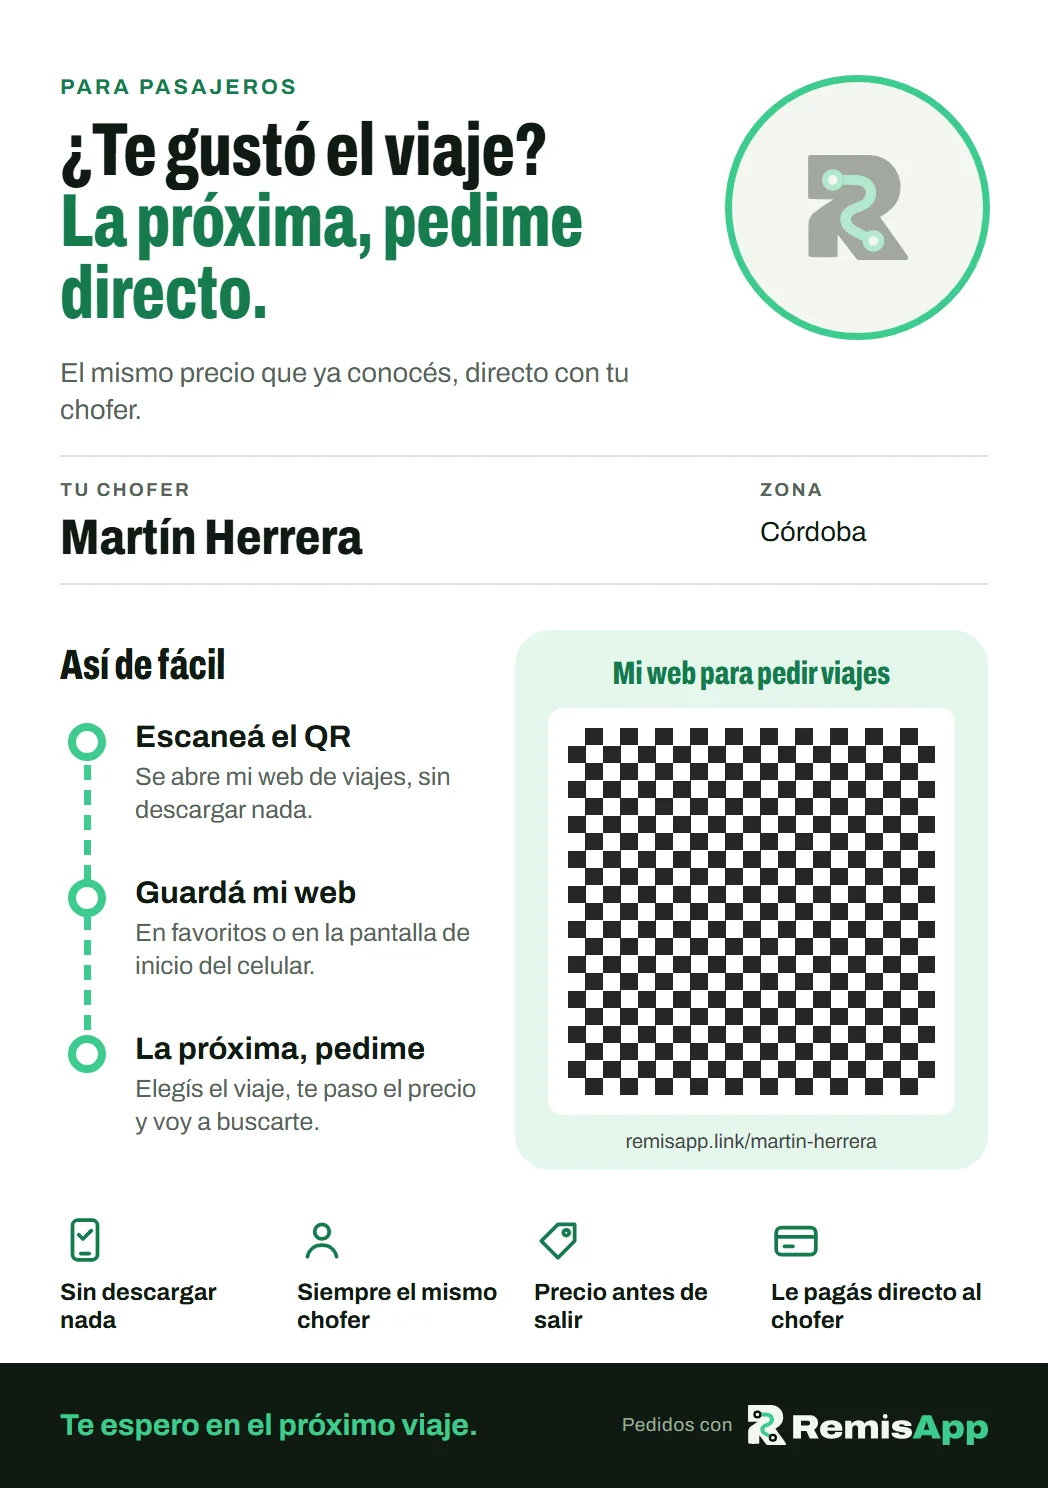
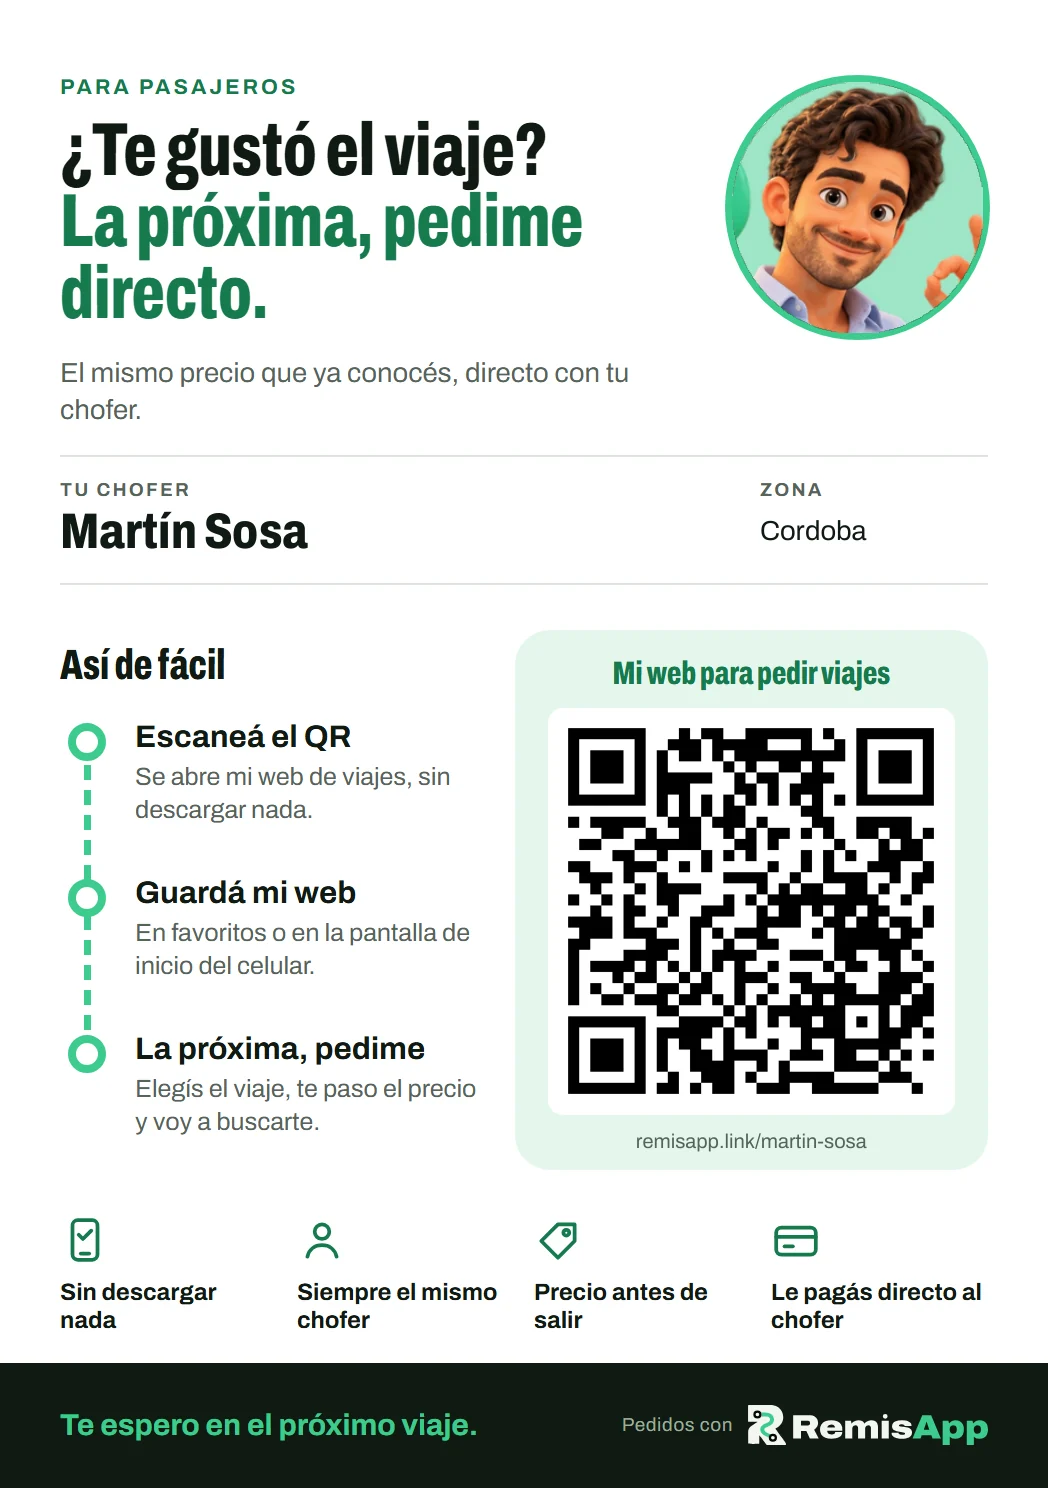
Landing: cartel QR de ejemplo nuevo (Martin Sosa, sacado de la app) y Privacidad sin 'remis y taxi'

diff --git a/landing-independiente/compartir.html b/landing-independiente/compartir.html
@@ -52,7 +52,7 @@
 <section class="feats">
   <div class="wrap">
     <div class="feat"><div class="phone"><img src="/assets/screens/app-pasajeros.webp" alt="Pestaña Pasajeros con los accesos Mi QR, Carteles y Mi link" width="780" height="1688" loading="lazy"></div><div><h2>Mi QR, Carteles <em>y Mi link.</em></h2><p>En la pestaña Pasajeros tenés tu QR para mostrar en pantalla, los carteles para imprimir y tu link para copiar y mandar.</p><ul class="checks"><li><svg viewBox="0 0 24 24" fill="none" stroke="currentColor" stroke-width="2.4" stroke-linecap="round" stroke-linejoin="round" aria-hidden="true"><path d="M20 6 9 17l-5-5"/></svg><span><strong>Siempre es el mismo.</strong> No tenés que volver a imprimir nada.</span></li><li><svg viewBox="0 0 24 24" fill="none" stroke="currentColor" stroke-width="2.4" stroke-linecap="round" stroke-linejoin="round" aria-hidden="true"><path d="M20 6 9 17l-5-5"/></svg><span><strong>Lo compartís en un toque.</strong> Por WhatsApp o donde quieras.</span></li></ul></div></div>
-    <div class="feat"><div class="sheet"><img src="/assets/screens/cartel-qr-ejemplo.webp" alt="Cartel QR para pasajeros con el nombre del chofer y un QR grande" width="1048" height="1488" loading="lazy"></div><div><h2>Un cartel <em>para el asiento.</em></h2><p>Tamaño A5, con tu nombre, tu foto y un QR grande. El pasajero lo escanea durante el viaje, guarda tu web y la próxima vez te pide directo.</p><ul class="checks"><li><svg viewBox="0 0 24 24" fill="none" stroke="currentColor" stroke-width="2.4" stroke-linecap="round" stroke-linejoin="round" aria-hidden="true"><path d="M20 6 9 17l-5-5"/></svg><span><strong>Imprimilo en casa.</strong> Es casi todo blanco: gasta poca tinta.</span></li><li><svg viewBox="0 0 24 24" fill="none" stroke="currentColor" stroke-width="2.4" stroke-linecap="round" stroke-linejoin="round" aria-hidden="true"><path d="M20 6 9 17l-5-5"/></svg><span><strong>Pegalo en el respaldo.</strong> A la altura de los ojos del que va atrás.</span></li></ul></div></div>
+    <div class="feat"><div class="sheet"><img src="/assets/screens/cartel-qr-ejemplo.webp" alt="Cartel QR de Martín Sosa para pasajeros: ¿Te gustó el viaje? La próxima, pedime directo" width="1048" height="1488" loading="lazy"></div><div><h2>Un cartel <em>para el asiento.</em></h2><p>Tamaño A5, con tu nombre, tu foto y un QR grande. El pasajero lo escanea durante el viaje, guarda tu web y la próxima vez te pide directo.</p><ul class="checks"><li><svg viewBox="0 0 24 24" fill="none" stroke="currentColor" stroke-width="2.4" stroke-linecap="round" stroke-linejoin="round" aria-hidden="true"><path d="M20 6 9 17l-5-5"/></svg><span><strong>Imprimilo en casa.</strong> Es casi todo blanco: gasta poca tinta.</span></li><li><svg viewBox="0 0 24 24" fill="none" stroke="currentColor" stroke-width="2.4" stroke-linecap="round" stroke-linejoin="round" aria-hidden="true"><path d="M20 6 9 17l-5-5"/></svg><span><strong>Pegalo en el respaldo.</strong> A la altura de los ojos del que va atrás.</span></li></ul></div></div>
     <div class="feat"><div class="phone"><img src="/assets/screens/pagina-publica.webp" alt="Web del chofer con su nombre, su auto y el formulario para pedir" width="780" height="1688" loading="lazy"></div><div><h2>Lo que ve <em>el que escanea.</em></h2><p>Tu web con tu nombre, tu auto y un botón para pedir. Funciona desde el navegador, sin descargar nada.</p><ul class="checks"><li><svg viewBox="0 0 24 24" fill="none" stroke="currentColor" stroke-width="2.4" stroke-linecap="round" stroke-linejoin="round" aria-hidden="true"><path d="M20 6 9 17l-5-5"/></svg><span><strong>Ve el recorrido en el mapa.</strong> Antes de pedir.</span></li><li><svg viewBox="0 0 24 24" fill="none" stroke="currentColor" stroke-width="2.4" stroke-linecap="round" stroke-linejoin="round" aria-hidden="true"><path d="M20 6 9 17l-5-5"/></svg><span><strong>Te guarda como su chofer.</strong> Y la próxima vez te pide en un toque.</span></li></ul></div></div>
     <div class="feat feat--solo"><div><h2>Tu link, <em>en todos lados.</em></h2><p>El QR es para el auto. El link es para todo lo demás: mandáselo por WhatsApp a tus pasajeros de siempre, ponelo en tu estado o en la bio de Instagram.</p><ul class="checks"><li><svg viewBox="0 0 24 24" fill="none" stroke="currentColor" stroke-width="2.4" stroke-linecap="round" stroke-linejoin="round" aria-hidden="true"><path d="M20 6 9 17l-5-5"/></svg><span><strong>A tus pasajeros fijos.</strong> Que ya te piden por mensaje: así les queda todo ordenado.</span></li><li><svg viewBox="0 0 24 24" fill="none" stroke="currentColor" stroke-width="2.4" stroke-linecap="round" stroke-linejoin="round" aria-hidden="true"><path d="M20 6 9 17l-5-5"/></svg><span><strong>En tus redes.</strong> Para que te pidan los que te conocen.</span></li></ul></div></div>
   </div>

diff --git a/landing-independiente/privacidad.html b/landing-independiente/privacidad.html
@@ -99,7 +99,7 @@ footer{
   <h1>Política de Privacidad</h1>
   <p class="meta">Última actualización: julio de 2026</p>
 
-  <p>RemisApp ("nosotros", "nuestro") opera una plataforma de gestión de viajes en remis y taxi que permite a choferes y remiserías recibir pedidos a través de WhatsApp. Esta política describe qué información recopilamos, cómo la usamos y cómo la protegemos.</p>
+  <p>RemisApp ("nosotros", "nuestro") opera una plataforma de gestión de viajes con chofer que permite a choferes y empresas de viajes recibir pedidos de sus pasajeros desde su web, su app y WhatsApp. Esta política describe qué información recopilamos, cómo la usamos y cómo la protegemos.</p>
 
   <h2>1. Información que recopilamos</h2>
   <ul>
